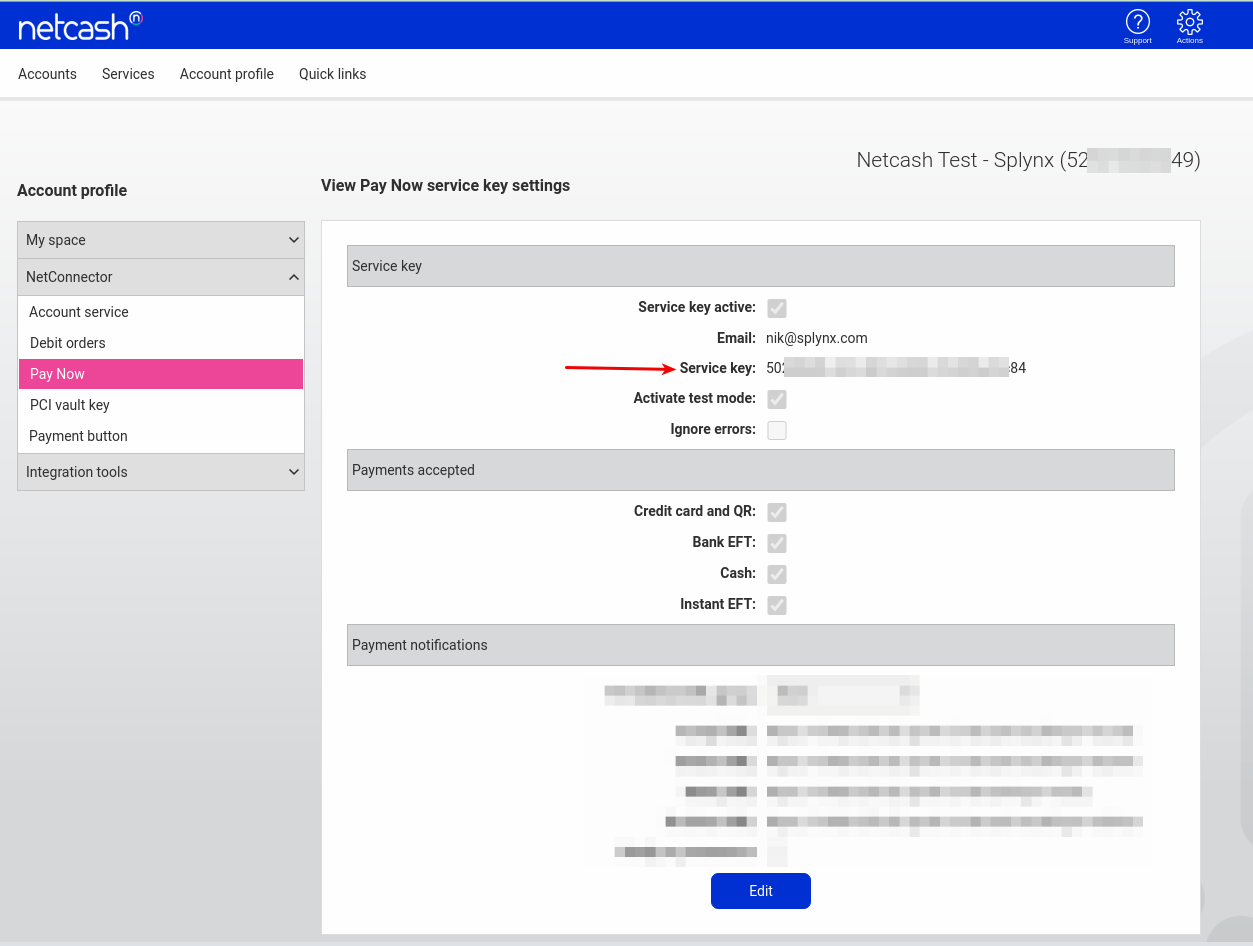
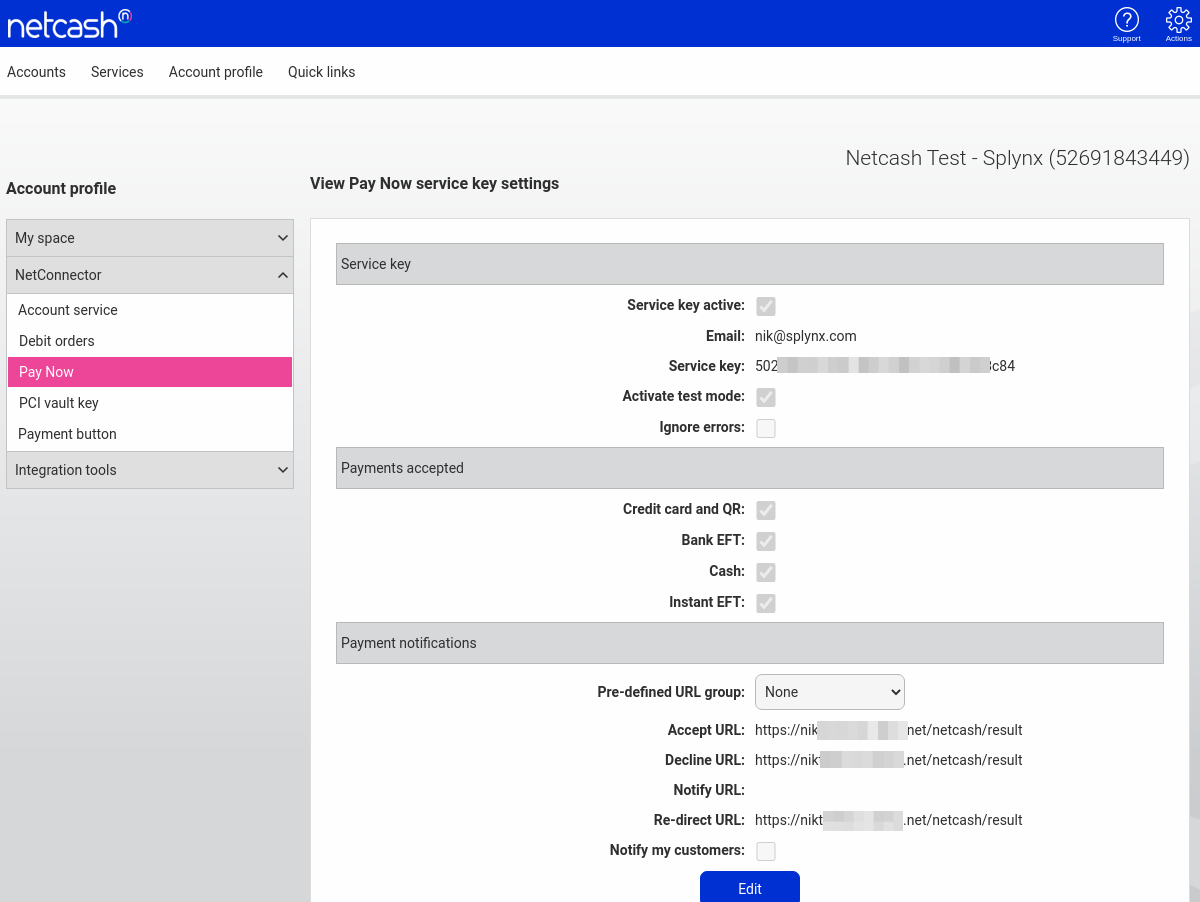
update netcash doc

diff --git a/files/payment_systems/netcash/netcash.md b/files/payment_systems/netcash/netcash.md
@@ -31,6 +31,9 @@ After installation an addon has to be configured, to do this navigate to **Confi
 
 ![netcash profile](netcash_profile.png)
 
+Under "Payment notifications" section you have to configure Accept URL, Decline URL and Re-direct URL with value of next format: **https://yourSplynx.com/netcash/result**.
+
+
 All the rest parameters can not to be changed or you can configure here additional service fee(if needed) and other common settings.
 
 After configuration entry points(widgets for portal) should be enabled:
